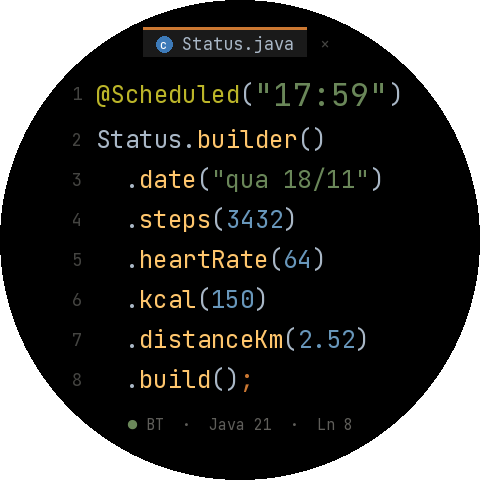
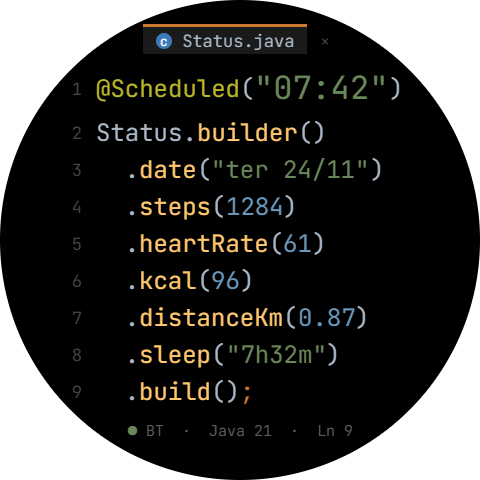
Adiciona horas de sono (1.1.0)
Nova chamada .sleep("7h32m") no builder (null sem registro).

diff --git a/watchface/index.js b/watchface/index.js
@@ -8,10 +8,11 @@
  *   5    .heartRate(64)
  *   6    .kcal(150)
  *   7    .distanceKm(2.52)
- *   8    .build();
+ *   8    .sleep("7h32m")     (null sem registro de sono)
+ *   9    .build();
  */
 import { createWidget, widget, align, prop, text_style } from '@zos/ui'
-import { Time, Step, HeartRate, Calorie, Distance } from '@zos/sensor'
+import { Time, Step, HeartRate, Calorie, Distance, Sleep } from '@zos/sensor'
 import { connectStatus } from '@zos/ble'
 
 // ---------- tema (cores de IDE escura) ----------
@@ -40,14 +41,23 @@ const GUTTER_X = 42
 const GUTTER_W = 40
 const GUTTER_SIZE = 17
 
-const TOP = 69
+const TOP = 64
 const TIME_SIZE = 32
-const TIME_H = 51
+const TIME_H = 50
 const SIZE = 24
-const LINE_H = 40
+const LINE_H = 37
 
 const DAYS = ['seg', 'ter', 'qua', 'qui', 'sex', 'sáb', 'dom'] // Time.getDay(): 1 = segunda ... 7 = domingo
 const pad = (n) => String(n).padStart(2, '0')
+// minutos de sono → "7h32m"; null quando o relógio não registrou sono
+const sleepText = (min) => (min > 0 ? `${Math.floor(min / 60)}h${pad(min % 60)}m` : null)
+const sleepMinutes = (s) => {
+  try {
+    return (s.getInfo() || {}).totalTime || 0
+  } catch (e) {
+    return 0 // sem permissão ou sem dado
+  }
+}
 
 function text(props) {
   return createWidget(widget.TEXT, {
@@ -132,6 +142,7 @@ WatchFace({
     this.hr = new HeartRate()
     this.cal = new Calorie()
     this.dist = new Distance()
+    this.sleep = new Sleep()
 
     // ---------- aba "Status.java" ----------
     const tabSize = 17
@@ -142,7 +153,7 @@ WatchFace({
     const tabW = tabPad * 2 + iconD + Math.round(tabLabel.length * tabCw)
     const closeW = 24
     const tabX = Math.round(240 - (tabW + 6 + closeW) / 2)
-    const tabY = 27
+    const tabY = 24
     const tabH = 30
 
     createWidget(widget.FILL_RECT, { x: tabX, y: tabY, w: tabW, h: tabH, color: C.tabBg })
@@ -199,7 +210,9 @@ WatchFace({
     y += LINE_H
     this.lDist = call(7, y, 'distanceKm', '0.00', C.num)
     y += LINE_H
-    new CodeLine(8, y, LINE_H, SIZE, [
+    this.lSleep = call(8, y, 'sleep', 'null', C.kw)
+    y += LINE_H
+    new CodeLine(9, y, LINE_H, SIZE, [
       { text: '  .', color: C.text },
       { text: 'build', color: C.method },
       { text: '()', color: C.text },
@@ -209,9 +222,9 @@ WatchFace({
     // ---------- barra de status ----------
     const stSize = 15
     const stCw = stSize * ADV
-    const stRest = ' BT  ·  Java 21  ·  Ln 8'
+    const stRest = ' BT  ·  Java 21  ·  Ln 9'
     const stX = Math.round(240 - ((1 + stRest.length) * stCw) / 2)
-    const stY = 413
+    const stY = 418
     this.btDot = text({ x: stX, y: stY, w: 20, h: 24, text: '●', color: C.off, text_size: stSize })
     text({
       x: stX + Math.round(stCw),
@@ -245,15 +258,25 @@ WatchFace({
       const meters = this.dist.getCurrent() // em metros
       this.lDist.set(3, (meters / 1000).toFixed(2))
     }
+    this.updateSleep = () => {
+      const s = sleepText(sleepMinutes(this.sleep))
+      if (s) this.lSleep.set(3, `"${s}"`, C.str)
+      else this.lSleep.set(3, 'null', C.kw)
+    }
     this.updateAll = () => {
       this.updateTime()
       this.updateSteps()
       this.updateHr()
       this.updateKcal()
       this.updateDist()
+      this.updateSleep()
     }
 
-    this.time.onPerMinute(this.updateTime)
+    // sono não tem evento de mudança (o sistema recalcula a cada ~30 min): lê a cada minuto
+    this.time.onPerMinute(() => {
+      this.updateTime()
+      this.updateSleep()
+    })
     this.step.onChange(this.updateSteps)
     this.hr.onLastChange(this.updateHr)
     this.cal.onChange(this.updateKcal)

diff --git a/README.md b/README.md
@@ -1,7 +1,7 @@
 # Builder.class — mostrador para Amazfit T-Rex 3
 [🇺🇸 Read in English](#builderclass--watch-face-for-amazfit-t-rex-3)
 
-Mostrador estilo código Java com builder (Zepp OS, 480x480): hora, data, passos, batimentos, kcal e distância.
+Mostrador estilo código Java com builder (Zepp OS, 480x480): hora, data, passos, batimentos, kcal, distância e sono.
 
 ![Preview do mostrador](docs/preview.png)
 
@@ -61,6 +61,7 @@ O alinhamento das cores depende da fonte ser monoespaçada (cada caractere = 0,6
 
 - Batimento sem medição recente aparece como `null` (laranja, como palavra-chave).
 - Distância vem em metros do sensor e é exibida em km com 2 casas (número, sem aspas).
+- Sono: total de horas dormidas registradas pelo relógio (`7h32m`). Sem registro, aparece `null` (laranja), como o batimento. O sistema recalcula o sono a cada ~30 min, então o mostrador relê a cada minuto e ao acender a tela.
 - O ● da barra de status fica verde com o celular conectado por Bluetooth e cinza desconectado (atualiza a cada minuto).
 - Não tem versão AOD (tela sempre ligada) ainda.
 
@@ -71,7 +72,7 @@ Fonte: JetBrains Mono (SIL OFL 1.1), reduzida aos caracteres usados.
 # Builder.class — watch face for Amazfit T-Rex 3
 [🇧🇷 Leia em Português](#builderclass--mostrador-para-amazfit-t-rex-3)
 
-Java builder-style code watch face (Zepp OS, 480x480): time, date, steps, heart rate, calories and distance.
+Java builder-style code watch face (Zepp OS, 480x480): time, date, steps, heart rate, calories, distance and sleep.
 
 ![Watch face preview](docs/preview.png)
 
@@ -131,6 +132,7 @@ Color alignment relies on the font being monospaced (each character = 0.6 × siz
 
 - Heart rate with no recent reading shows as `null` (orange, like a keyword).
 - Distance comes from the sensor in meters and is shown in km with 2 decimals (a number, no quotes).
+- Sleep: total sleep recorded by the watch (`7h32m`). With no record it shows `null` (orange), like heart rate. The system recalculates sleep about every 30 min, so the face re-reads it every minute and when the screen wakes up.
 - The ● in the status bar is green while the phone is connected over Bluetooth and gray when disconnected (updates every minute).
 - No AOD (always-on display) version yet.
 
